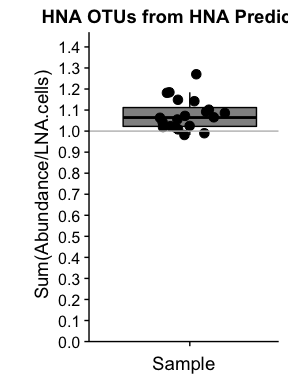
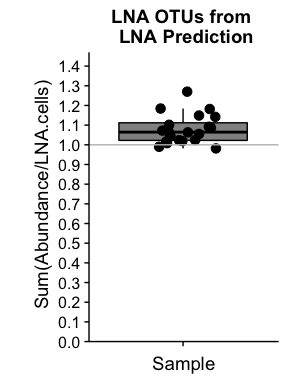
small fixes to github figures

diff --git a/Final/HNA_OutliersRemoved/June16_Analysis.md b/Final/HNA_OutliersRemoved/June16_Analysis.md
@@ -194,9 +194,9 @@ ggplot(AbsAbund_hna_otus, aes(x = reorder(OTU, Phylum), y = OTU_fraction_HNA, fi
   scale_fill_manual(values = phylum_colors) +
   ylab("Fraction of HNA Cells") +
   ggtitle("HNA OTUs from HNA Prediction") + 
-  guides(fill = guide_legend(ncol=2),
-         color = guide_legend(ncol=2)) +
-  theme(legend.position = c(0.33, 0.85),
+  guides(fill = guide_legend(ncol=3),
+         color = guide_legend(ncol=3)) +
+  theme(legend.position = c(0.4, 0.65),
         legend.direction = "horizontal",
         legend.title = element_blank(),
         axis.title.x = element_blank(),
@@ -228,13 +228,13 @@ ggplot(frac_HNA_stats_AbsAbund_hna_otus,
        aes(y = sum_fracHNA, x = All_Samples, color = "All_Samples", fill = "All_Samples")) +
   geom_boxplot(alpha = 0.5, outlier.shape = NA) + 
   geom_point(size = 3, position = position_jitterdodge()) +
-  ggtitle("HNA OTUs from HNA Prediction") + 
+  ggtitle("HNA OTUs from \nHNA Prediction") + 
   xlab("All Samples") + scale_color_manual(values = "black") +
   scale_fill_manual(values = "black") +
   geom_abline(intercept = 1, slope = 0, color = "grey") +                                   # Draw a line at 1 
   scale_y_continuous(expand = c(0,0),
                      limits = c(0, max(frac_HNA_stats_AbsAbund_hna_otus$sum_fracHNA) + 0.2), 
-                     breaks = seq(0,  max(frac_HNA_stats_AbsAbund_hna_otus$sum_fracHNA) + 0.2, by = 0.1)) +
+                     breaks = seq(0,  max(frac_HNA_stats_AbsAbund_hna_otus$sum_fracHNA) + 0.2, by = 0.2)) +
   ylab("\n Sum(Abundance/HNA.cells)") + xlab("Sample") +
   theme(legend.position = "none", axis.text.x = element_blank())
 ```
@@ -532,7 +532,7 @@ ggplot(AbsAbund_lna_otus, aes(x = reorder(OTU, Phylum), y = OTU_fraction_LNA, fi
   ggtitle("LNA OTUs from LNA Prediction") + 
   guides(fill = guide_legend(ncol=3),
          color = guide_legend(ncol=3)) +
-  theme(legend.position = c(0.5, 0.85),
+  theme(legend.position = c(0.5, 0.65),
         legend.direction = "horizontal",
         legend.title = element_blank(),
         axis.title.x = element_blank(),
@@ -564,7 +564,7 @@ ggplot(frac_HNA_stats_AbsAbund_lna_otus,
        aes(y = sum_fracLNA, x = All_Samples, color = "All_Samples", fill = "All_Samples")) +
   geom_boxplot(alpha = 0.5, outlier.shape = NA) + 
   geom_point(size = 3, position = position_jitterdodge()) +
-  ggtitle("HNA OTUs from HNA Prediction") + 
+  ggtitle("LNA OTUs from \n LNA Prediction") + 
   xlab("All Samples") + scale_color_manual(values = "black") +
   scale_fill_manual(values = "black") +
   geom_abline(intercept = 1, slope = 0, color = "grey") +                                   # Draw a line at 1 
@@ -596,5 +596,3 @@ ggplot(all_lna_data, aes(x = sum_abs_abund, y= LNA.cells)) +
 <img src="June16_Analysis_files/figure-markdown_github/pred-LNA-1.png" style="display: block; margin: auto;" />
 
 Quite a nice correlation with the LNA OTUS!
-
-**Note that All samples with an absolute abundance of 0 were left out of the above OLS linear model calculations.**
